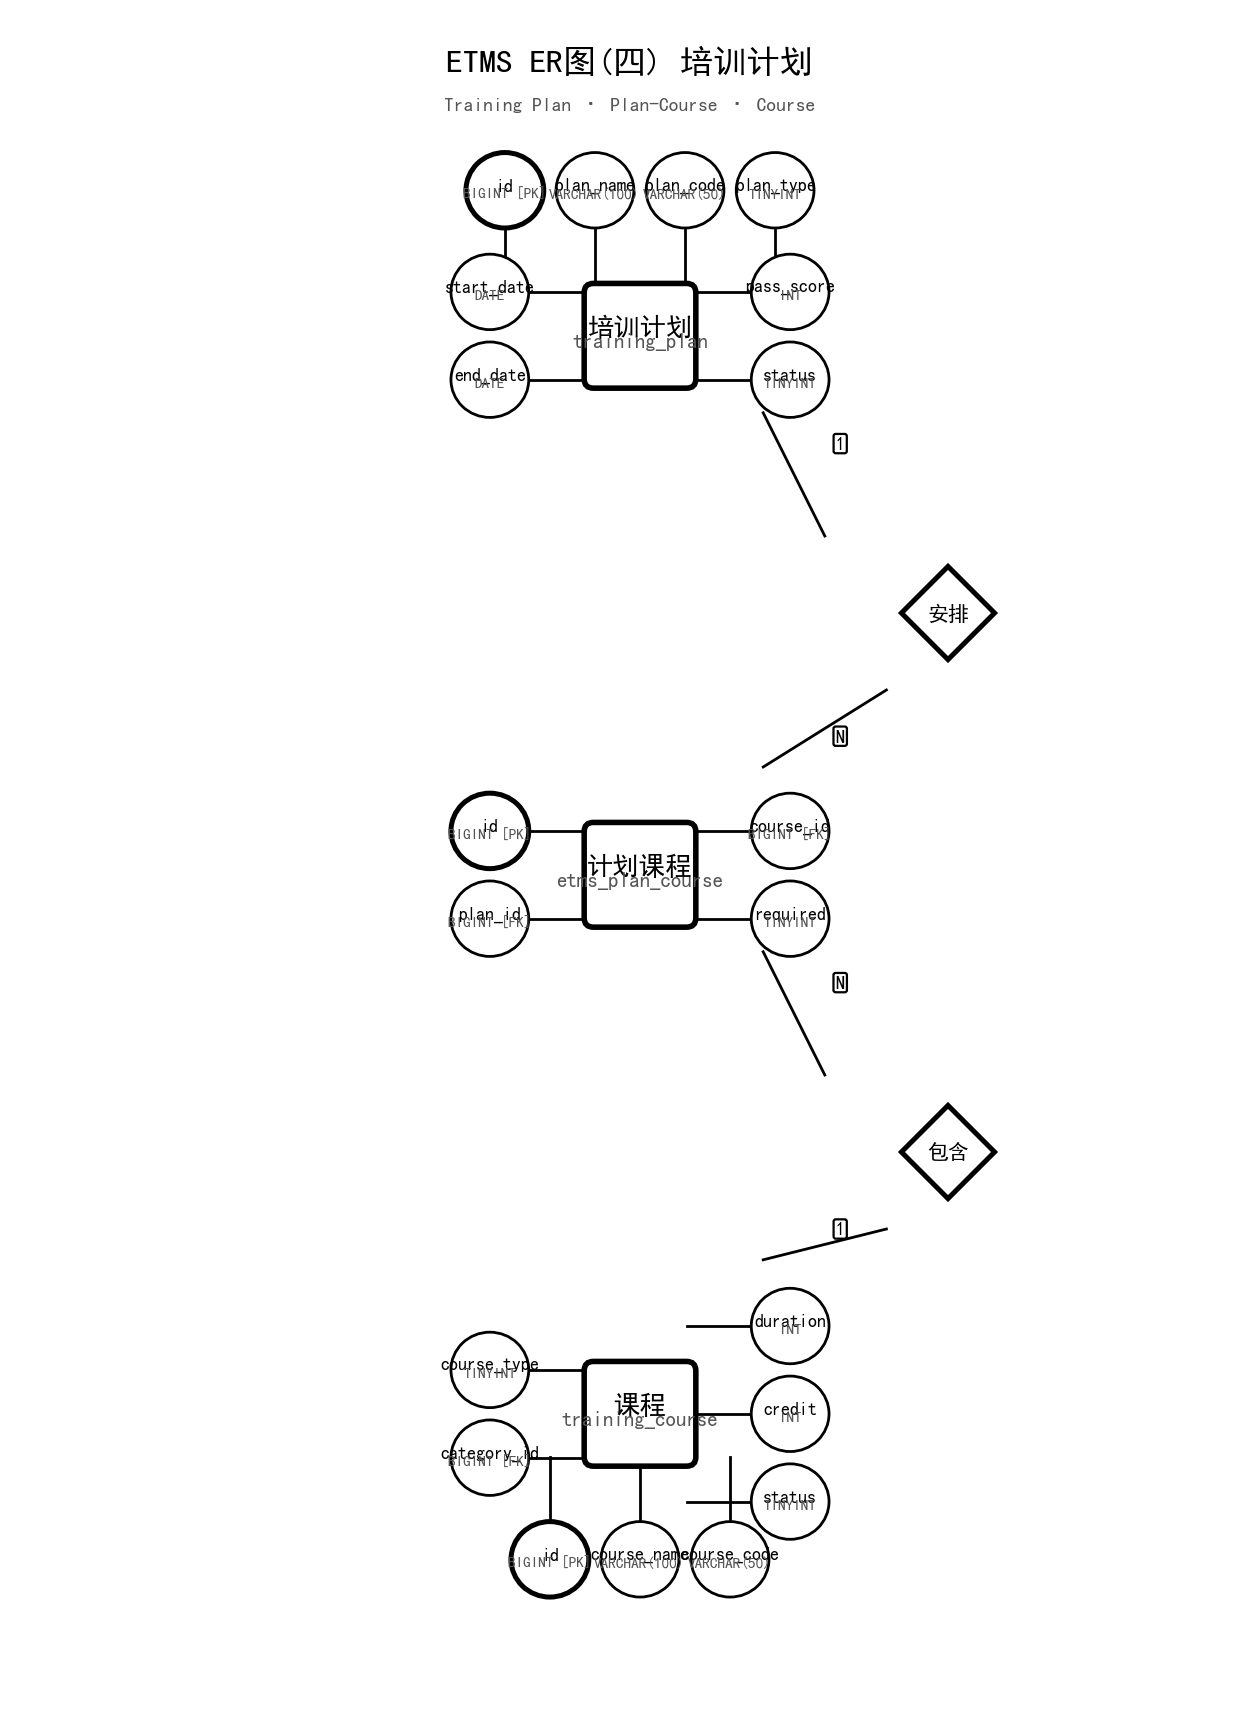
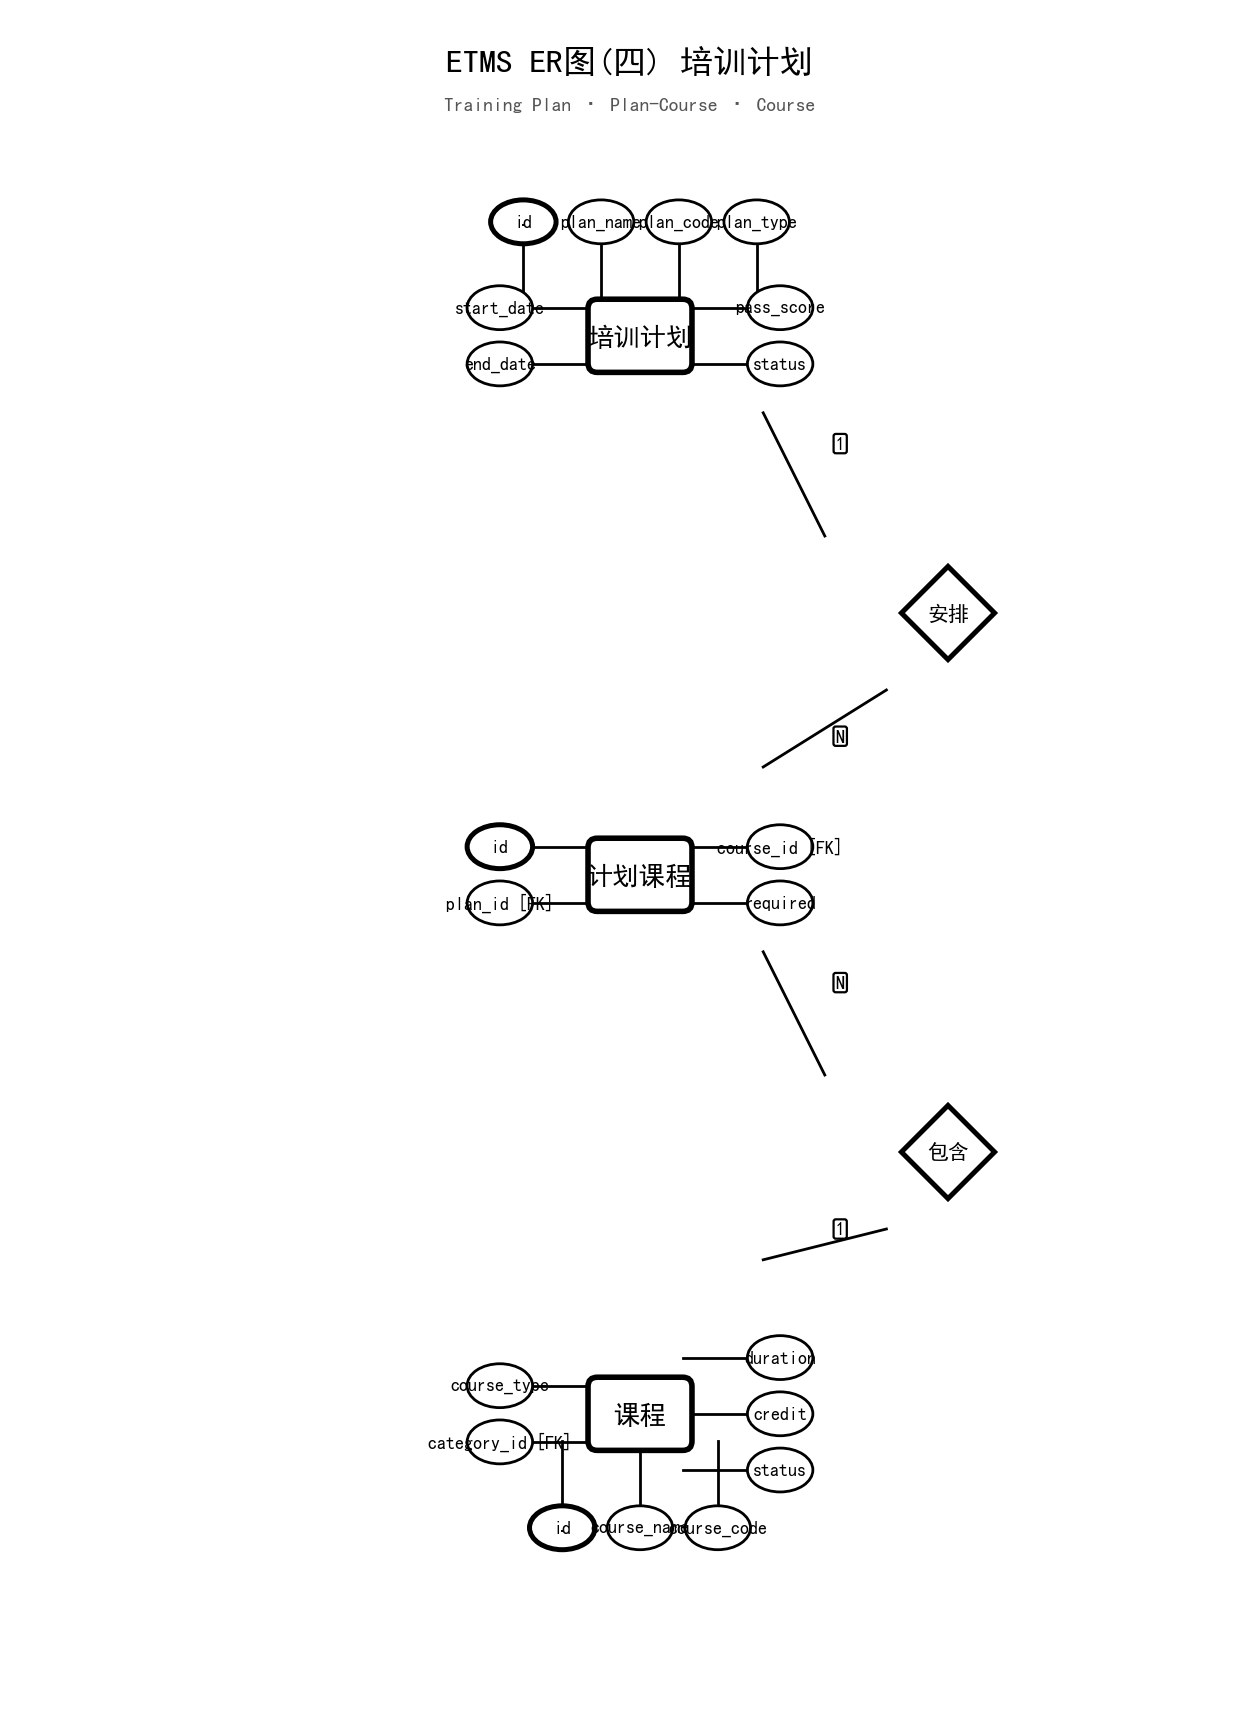
docs: 去掉边框内颜色淡的次要文字
- 实体矩形:只保留中文名称(粗体黑色),去掉英文表名
- 属性椭圆:只保留属性名(黑色),去掉数据类型行
- FK属性名后附加[FK]标记保留外键信息
- PK通过下划线标识(保持不变)
- 椭圆/矩形尺寸同步缩小,更紧凑

Changed region(s): [[0.3407, 0.7417, 0.6505, 0.9271], [0.3407, 0.0927, 0.6815, 0.2472], [0.3407, 0.4636, 0.6815, 0.5563]]

diff --git a/docs/generate_er_v4.py b/docs/generate_er_v4.py
@@ -54,38 +54,29 @@ class ER:
     # ── 实体矩形 ──
     def entity(self, cx, cy, cn, en):
         w1, h1 = self._tw(cn, 9.5)
-        w2, h2 = self._tw(en, 7.5)
-        bw = max(w1, w2) + 0.60
-        bh = h1 + h2 + 0.15 + 0.40
+        bw = w1 + 0.55
+        bh = h1 + 0.35
         self.ax.add_patch(FancyBboxPatch(
             (cx-bw/2, cy-bh/2), bw, bh, boxstyle="round,pad=0.06",
             lw=2.0, ec=BLACK, fc=WHITE, zorder=5))
-        self.ax.text(cx, cy+h1/2+0.06, cn, ha='center', va='center',
+        self.ax.text(cx, cy, cn, ha='center', va='center',
                      fontsize=9.5, fontweight='bold', color=BLACK, zorder=6)
-        self.ax.text(cx, cy-h2/2-0.03, en, ha='center', va='center',
-                     fontsize=7.5, color=GRAY, zorder=6)
         return bw, bh
 
     # ── 属性椭圆 ──
     def attr(self, cx, cy, name, dtype, pk=False, fk=False):
-        tag = ''
-        if pk: tag += ' [PK]'
-        if fk: tag += ' [FK]'
-        lb2 = dtype + tag
-        w1, h1 = self._tw(name, 6.5)
-        w2, h2 = self._tw(lb2,  5.5)
-        ew = max(w1, w2) + 0.50
-        eh = h1 + h2 + 0.10 + 0.38
+        display = name + (' [FK]' if fk else '')
+        w1, h1 = self._tw(display, 6.5)
+        ew = w1 + 0.42
+        eh = h1 + 0.28
         self.ax.add_patch(Ellipse((cx, cy), ew, eh,
             lw=(1.8 if pk else 1.0), ec=BLACK, fc=WHITE, zorder=5))
-        self.ax.text(cx, cy+h1/2+0.03, name, ha='center', va='center',
+        self.ax.text(cx, cy, display, ha='center', va='center',
                      fontsize=6.5, fontweight='bold' if pk else 'normal',
                      color=BLACK, zorder=6)
-        self.ax.text(cx, cy-h2/2-0.02, lb2, ha='center', va='center',
-                     fontsize=5.5, color=GRAY, zorder=6)
         if pk:
             self.ax.plot([cx-w1*0.75/2, cx+w1*0.75/2],
-                         [cy+0.01, cy+0.01],
+                         [cy-0.02, cy-0.02],
                          color=BLACK, lw=0.7, zorder=6)
         return ew, eh
 
@@ -126,12 +117,9 @@ class ER:
 #  自动排列，各方向内等间距居中
 
 def _esz(d, a):
-    tag = ''
-    if a[2]: tag += ' [PK]'
-    if a[3]: tag += ' [FK]'
-    w1, h1 = d._tw(a[0], 6.5)
-    w2, h2 = d._tw(a[1]+tag, 5.5)
-    return max(w1,w2)+0.50, h1+h2+0.10+0.38
+    display = a[0] + (' [FK]' if a[3] else '')
+    w1, h1 = d._tw(display, 6.5)
+    return w1+0.42, h1+0.28
 
 
 def layout(d, cx, cy, bw, bh, attrs, dirs):
